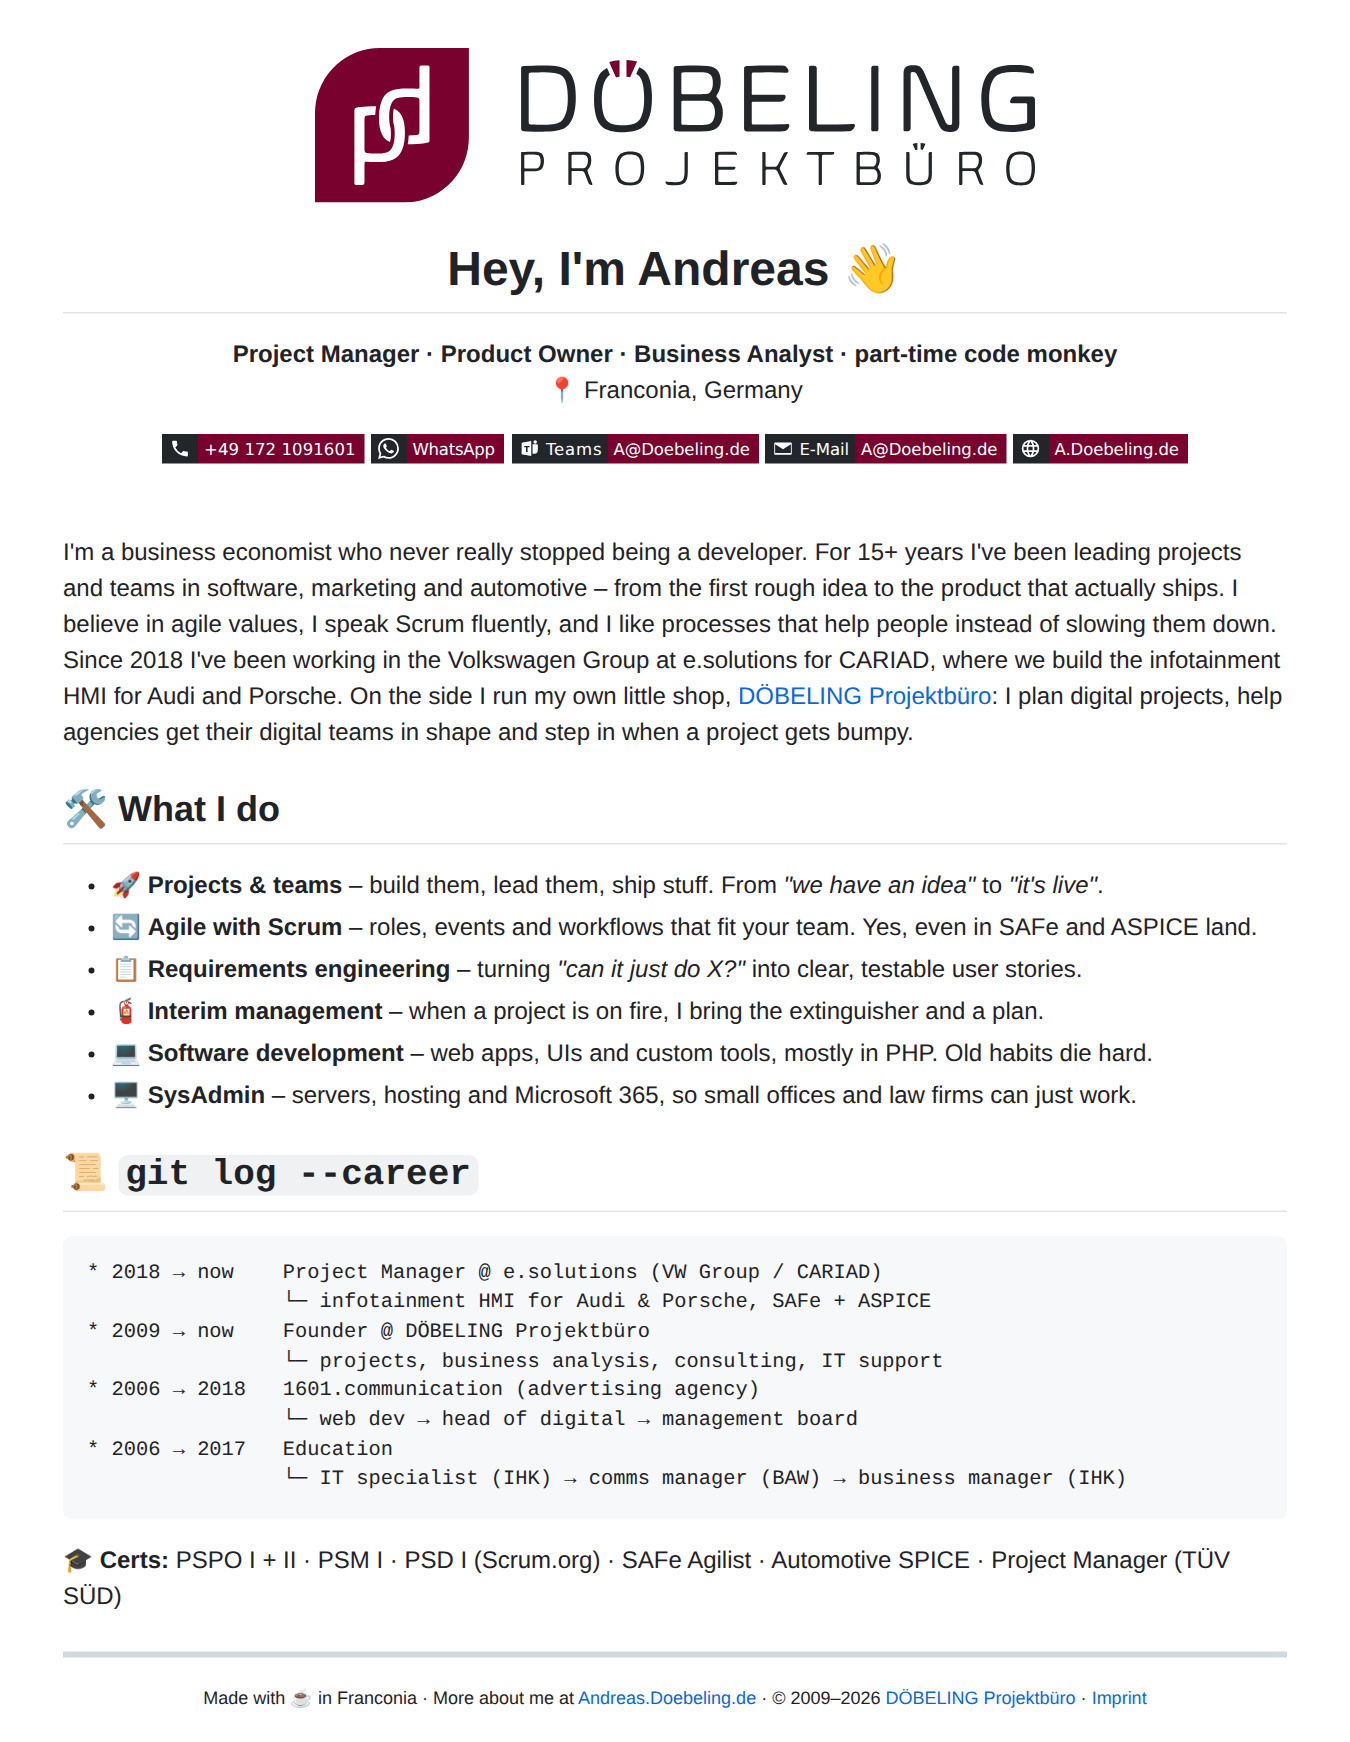
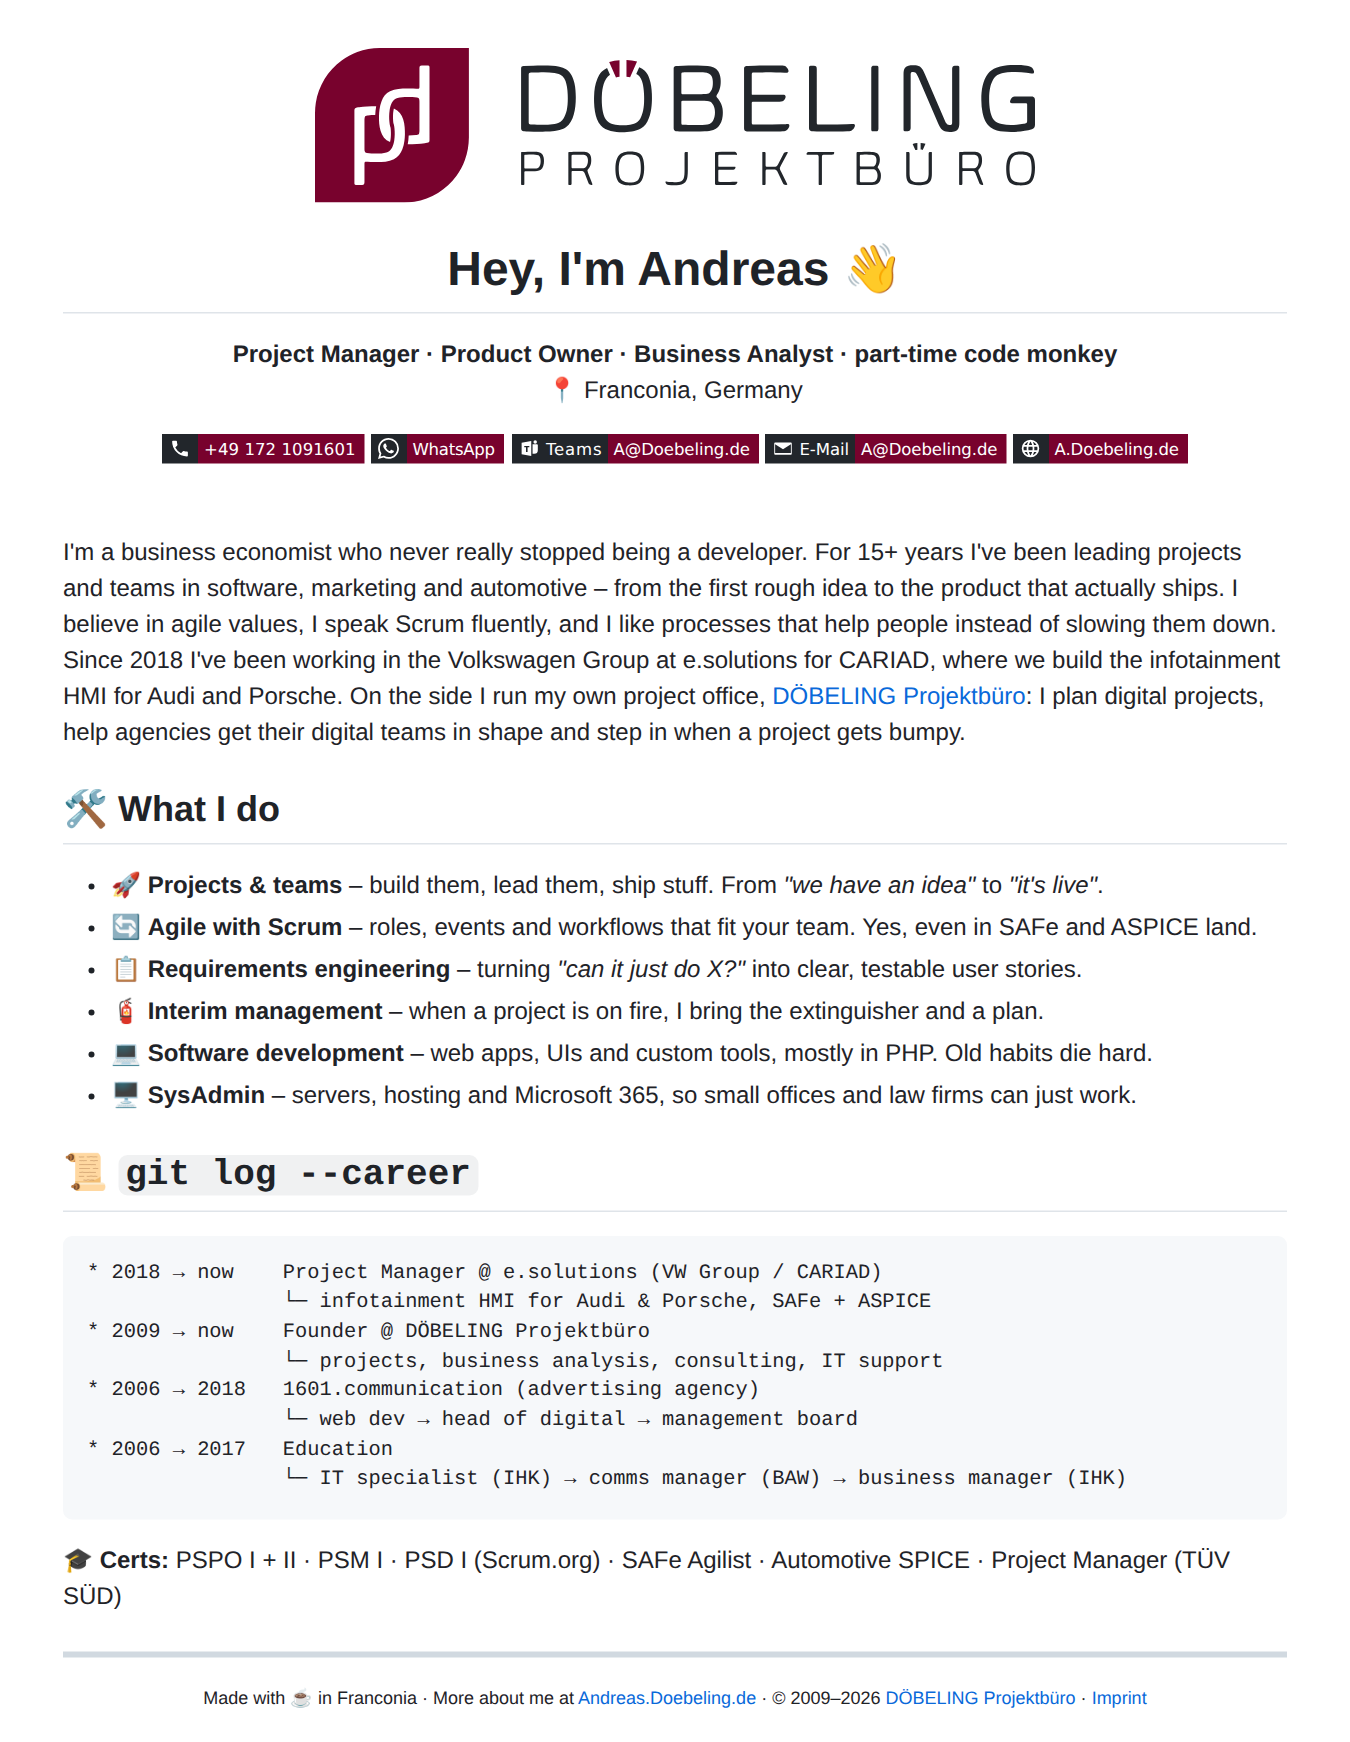
Call DÖBELING Projektbüro a project office

Changed region(s): [[0.0622, 0.372, 0.9333, 0.434]]

diff --git a/README.md b/README.md
@@ -24,7 +24,7 @@
 
 <br>
 
-I'm a business economist who never really stopped being a developer. For 15+ years I've been leading projects and teams in software, marketing and automotive – from the first rough idea to the product that actually ships. I believe in agile values, I speak Scrum fluently, and I like processes that help people instead of slowing them down. Since 2018 I've been working in the Volkswagen Group at e.solutions for CARIAD, where we build the infotainment HMI for Audi and Porsche. On the side I run my own little shop, [DÖBELING Projektbüro](https://www.Doebeling.de): I plan digital projects, help agencies get their digital teams in shape and step in when a project gets bumpy.
+I'm a business economist who never really stopped being a developer. For 15+ years I've been leading projects and teams in software, marketing and automotive – from the first rough idea to the product that actually ships. I believe in agile values, I speak Scrum fluently, and I like processes that help people instead of slowing them down. Since 2018 I've been working in the Volkswagen Group at e.solutions for CARIAD, where we build the infotainment HMI for Audi and Porsche. On the side I run my own project office, [DÖBELING Projektbüro](https://www.Doebeling.de): I plan digital projects, help agencies get their digital teams in shape and step in when a project gets bumpy.
 
 ## 🛠 What I do
 
